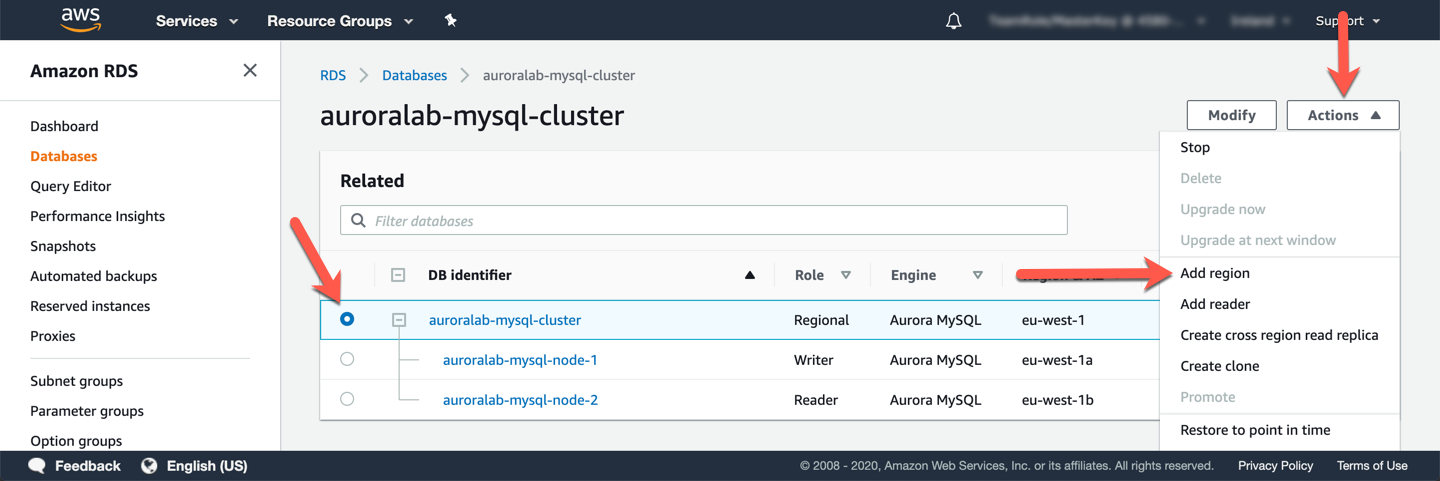
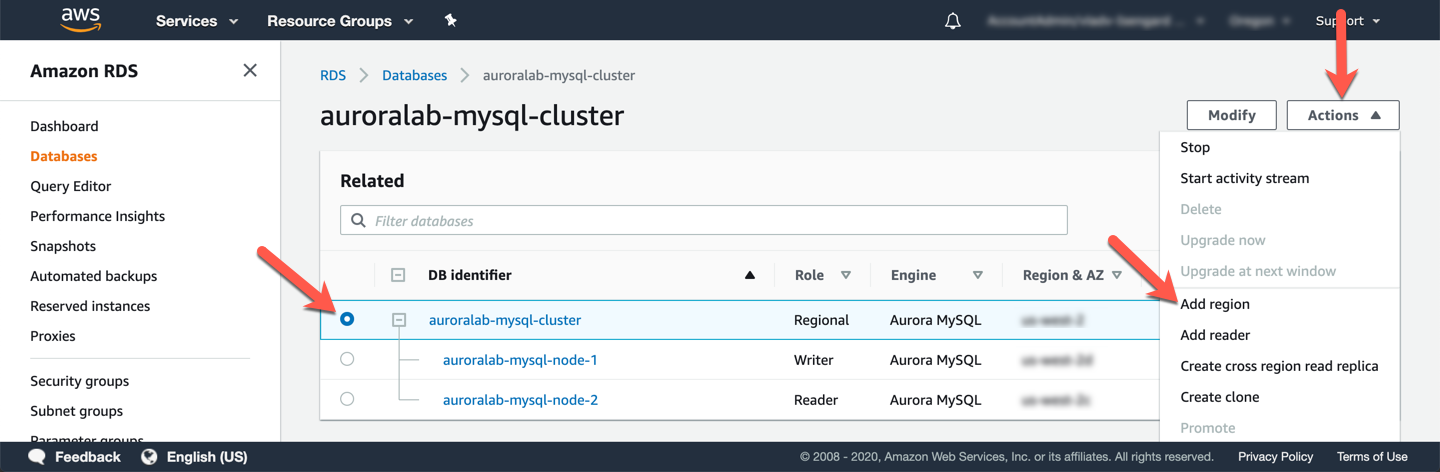
New GDB deploy instructions

diff --git a/docs/global/deploy/index.md b/docs/global/deploy/index.md
@@ -5,8 +5,7 @@ Amazon Aurora <a href="https://docs.aws.amazon.com/AmazonRDS/latest/AuroraUserGu
 This lab contains the following tasks:
 
 1. Create a lab environment in a different region
-2. Generate load on your DB cluster
-3. Create an Aurora Global cluster
+2. Create an Aurora global cluster
 
 This lab requires the following prerequisites:
 
@@ -14,15 +13,15 @@ This lab requires the following prerequisites:
 * [Connect to the Session Manager Workstation](/prereqs/connect/)
 * [Create a New DB Cluster](/provisioned/create/) (conditional, only if you plan to create a cluster manually)
 
+
+## 1. Create a lab environment in a different region
+
 !!! warning "Using Multiple Regions"
     Due to the **multi-region** nature of a Global Database, you will often be switching between two regions to accomplish the tasks in this lab. **Please be mindful** that you are performing the actions in the proper region, as some of the resources created are very similar between the two regions.
 
     We will refer to the region where your current DB cluster is deployed, and you have been working in so far, as your **primary region**. 
 
     We will refer to the region where you will deploy the secondary, read-only DB cluster as the **secondary region**.
-
-
-## 1. Create a lab environment in a different region
 
 To simplify the getting started experience with the labs, we have created foundational templates for <a href="https://aws.amazon.com/cloudformation/" target="_blank">AWS CloudFormation</a> that provision the resources needed for the lab environment. These templates are designed to deploy a consistent networking infrastructure, and client-side experience of software packages and components used in the lab.
 
@@ -45,31 +44,7 @@ Once the status of the stack is `CREATE_COMPLETE`, click on the **Outputs** tab.
 <span class="image">![Stack Outputs](cfn-stack-outputs.png?raw=true)</span>
 
 
-## 2. Generate load on your DB cluster
-
-While the second region is being built up, you will use Percona's TPCC-like benchmark script based on sysbench to generate load on the DB cluster in the existing region. For simplicity we have packaged the correct set of commands in an <a href="https://docs.aws.amazon.com/systems-manager/latest/userguide/sysman-ssm-docs.html" target="_blank">AWS Systems Manager Command Document</a>. You will use <a href="https://docs.aws.amazon.com/systems-manager/latest/userguide/execute-remote-commands.html" target="_blank">AWS Systems Manager Run Command</a> to execute the test. The load generator will run for approximatively one hour.
-
-!!! note
-    You will need to run the command in the **primary region**, not the region used for step 1. Create a lab environment in a different region.
-
-If you are not already connected to the Session Manager workstation command line, please connect [following these instructions](/prereqs/connect/). Once connected, enter one of the following commands, replacing the placeholders appropriately.
-
-```shell
-aws ssm send-command \
---document-name [mysqlRunDoc] \
---instance-ids [bastionMySQL]
-```
-
-??? tip "What do all these parameters mean?"
-    Parameter | Description
-    --- | ---
-    --document-name | The name of the command document to run on your behalf.
-    --instance-ids | The EC2 instance to execute this command on.
-
-The command will be sent to the workstation EC2 instance which will prepare the test data set and run the load test. It may take up to a minute for CloudWatch to reflect the additional load in the metrics. You will see a confirmation that the command has been initiated.
-
-
-## 3. Create an Aurora Global cluster
+## 2. Create an Aurora global cluster
 
 The lab environment that was provisioned automatically for you, already has an Aurora MySQL DB cluster, that you are running the load generator against. You will create a Global Database cluster using this existing DB cluster, as the **primary**.
 
@@ -80,11 +55,24 @@ The lab environment that was provisioned automatically for you, already has an A
 
 Once the lab environment created above at **Step 1. Create a lab environment in a different region** has finished deploying, you may proceed.
 
-::TODO:: Turn off Backtrack feature.
-
 Open the <a href="https://us-west-2.console.aws.amazon.com/rds/home?region=us-west-2#database:id=auroralab-mysql-cluster;is-cluster=true" target="_blank">Amazon RDS service console</a> at the MySQL DB cluster details page in the **primary** region. If you navigated to the RDS console by means other than the link in this paragraph, click on the `auroralab-mysql-cluster` in the **Databases** section of the RDS service console, and make sure you are back in the primary regions.
 
-From the **Actions** dropdown button, choose **Add region**.
+First, you need to **disable** the **Backtrack** feature. At present database backtrack is not compatible with Aurora Global Databases, and a cluster with that feature active cannot be converted into a global database. Select the `auroralab-mysql-cluster` and click the **Modify** button.
+
+!!! note
+    If you have not completed the [Backtrack a DB Cluster](/provisioned/backtrack/) lab already, and wish to do so, or have been instructed to do so part of the event, please complete that lab now before moving forward. Once disabled, you will not be able to re-enable the backtrack feature on an existing DB cluster.
+
+<span class="image">![RDS Cluster Modify](rds-cluster-action-modify.png?raw=true)</span>
+
+Scroll down to the **Backtrack** section and choose the **Disable Backtrack** option, then click **Continue** at the bottom of the page.
+
+<span class="image">![RDS Cluster Disable Backtrack](rds-cluster-disable-backtrack.png?raw=true)</span>
+
+In the **Scheduling of modifications** section, choose the **Apply immediately** option, then click **Modify cluster** to confirm the changes.
+
+<span class="image">![RDS Cluster Confirm Changes](rds-cluster-modify-confirm.png?raw=true)</span>
+
+Once the modification is complete, and the DB cluster is in an `available` state again, from the **Actions** dropdown button, choose **Add region**.
 
 <span class="image">![RDS Cluster Add Region](rds-cluster-action-add.png?raw=true)</span>
 
@@ -92,7 +80,7 @@ On the setup screen, under **Global database settings**, set the **Global databa
 
 In the **Connectivity** section, expand the sub-section called **Additional connectivity configuration**. This section allows you to specify where the database cluster will be deployed within your defined network configuration created above.
 
-Pick the **Virtual Private Cloud (VPC)** named `auroralab-vpc`. Similarly make sure the selected **Subnet Group** also matches the stack name (e.g. `auroralab-dbsubnets-[hash]`). Make sure the cluster **Publicly accessible** option is set to **No**. The lab environment also configured a **VPC security group** that allows your lab workspace EC2 instance to connect to the database. Make sure the **Choose existing** security group option is selected and from the dropdown pick the security group named `auroralab-mysql-internal`. Please remove any other security groups, such as `default` from the selection.
+Pick the **Virtual Private Cloud (VPC)** named `auroralab-vpc`. Similarly make sure the selected **Subnet Group** also matches the stack name (e.g. `auroralab-dbsubnets-[hash]`). Make sure the cluster **Publicly accessible** option is set to **No**. The lab environment also configured a **VPC security group** that allows your lab workspace EC2 instance to connect to the database. Make sure the **Choose existing** security group option is selected and from the dropdown pick the security group named `auroralab-database-sg`. Please remove any other security groups, such as `default` from the selection.
 
 Next, expand the **Advanced configuration** section. Set the **DB instance identifier** to `auroralab-mysql-node-3` and the **DB cluster identifier** to `auroralab-mysql-secondary`. For the **DB cluster parameter group** and **DB parameter group** selectors, choose the groups with the stack name in their name (e.g. `auroralab-[...]`).
 
